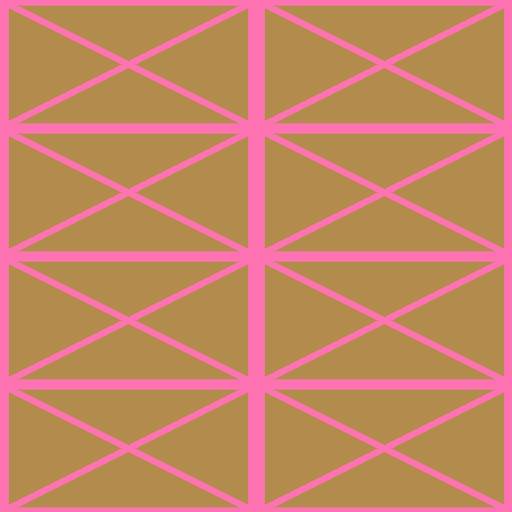
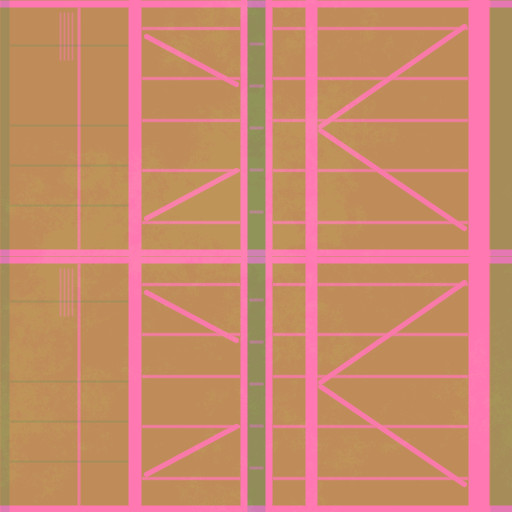
stadium: the dark steel texture in TMNF's Stands2 layout (M11-3)
Claude-Session: https://claude.ai/code/session_01CoCjs3F2Nw6StPmuE9yD2C

diff --git a/stadium/tools/texgen/decks.py b/stadium/tools/texgen/decks.py
@@ -232,30 +232,66 @@ def circuit_band(name='circuit_band', ppm=64, size_u=16.0, size_v=3.5, seed=291)
     save(name, turn(np.clip(col, 0, 1)), nrm, turn(orm))
 
 
-def steel_truss(name='steel_truss', ppm=64, size_m=8.0, seed=301, base=(40, 40, 41)):
-    """The dark steel behind the circuit's screens and under its ledges: posts every 4 m, rails
-    every 2 m, X braces between, on a dark panel (world-mapped)."""
-    w = h = int(size_m * ppm)
-    yy, xx = np.mgrid[0:h, 0:w].astype(np.float32) / ppm
-    def bar(d, half):
-        return 1.0 - smoothstep(half, half + 0.02, d)
-    post = bar(np.minimum(xx % 4.0, 4.0 - xx % 4.0), 0.12)
-    rail = bar(np.minimum(yy % 2.0, 2.0 - yy % 2.0), 0.07)
-    lx, ly = xx % 4.0, yy % 2.0
-    brace = np.maximum(bar(np.abs(ly - lx * 0.5) / 1.118, 0.04), bar(np.abs(ly - (2.0 - lx * 0.5)) / 1.118, 0.04))
-    frame = np.clip(np.maximum(np.maximum(post, rail), brace), 0, 1)
+def steel_truss(name='steel_truss', w=512, h=512, seed=301, base=(34, 35, 36)):
+    """The dark steel facade (TMNF's Stands2 layout; world-mapped, 8 m a tile): bays between posts
+    and a heavy girder across the middle and the tile's edge. From the left: a plain panel with a
+    rod and a few ribs, a post, a bay with two braces closing toward the double post in the middle
+    (its slot black), a bay with a post near its left and two braces opening from it to the right
+    post, a dark edge; rails across the bays. Faint: TMNF's steel reads as dark ribbed panels, its
+    braces a little lighter."""
+    yy, xx = np.mgrid[0:h, 0:w].astype(np.float32)
+    hh = yy % 256.0                      # the two halves alike
+    def band(a, lo, hi, soft=1.0):
+        return smoothstep(lo - soft, lo + soft, a) * (1.0 - smoothstep(hi - soft, hi + soft, a))
+    def seg(x0, y0, x1, y1, half_w):
+        # a brace from (x0, y0) to (x1, y1) in each half (pixels)
+        dx, dy = x1 - x0, y1 - y0
+        L = math.hypot(dx, dy)
+        t = np.clip(((xx - x0) * dx + (hh - y0) * dy) / (L * L), 0.0, 1.0)
+        d = np.hypot(xx - (x0 + t * dx), hh - (y0 + t * dy))
+        return 1.0 - smoothstep(half_w - 0.8, half_w + 0.8, d)
+    frame = np.zeros((h, w), np.float32)      # raised steel (lighter)
+    dark = np.zeros((h, w), np.float32)       # gaps and slots (darker)
+    # posts (x ranges) and the heavy girders (rows in each half)
+    for x0, x1 in ((128, 141), (240, 247), (265, 272), (305, 317), (468, 489)):
+        frame = np.maximum(frame, band(xx, x0, x1))
+    dark = np.maximum(dark, band(xx, 247, 265) * 0.9)
+    dark = np.maximum(dark, band(xx, 0, 9) * 0.6 + band(xx, 490, 512) * 0.5)
+    girder = np.maximum(band(hh, 0, 7), band(hh, 249, 256))
+    frame = np.maximum(frame, girder)
+    # rails across the bays (not the plain panel)
+    bays = band(xx, 141, 240) + band(xx, 272, 468)
+    for r in (28, 78, 120, 170, 222):
+        frame = np.maximum(frame, band(hh, r - 1.5, r + 1.5) * bays * 0.8)
+    # the plain panel's seams, rod and ribs
+    panel = band(xx, 9, 128)
+    for r in (45, 125, 165, 205):
+        dark = np.maximum(dark, band(hh, r - 1.0, r + 1.0) * panel * 0.5)
+    frame = np.maximum(frame, band(xx, 77, 80) * panel * 0.7)
+    for x in (60, 64, 68, 72):
+        frame = np.maximum(frame, band(xx, x - 0.8, x + 0.8) * band(hh, 12, 60) * 0.5)
+    # braces: closing toward the middle post (left bay), opening from the post to the right
+    braces = np.maximum.reduce([seg(146, 36, 236, 84, 2.6), seg(146, 218, 236, 170, 2.6),
+                                seg(320, 126, 464, 26, 2.6), seg(320, 130, 464, 228, 2.6)])
+    frame = np.maximum(frame, braces * 0.9)
+    # the middle slot's rungs
+    rung = band(xx, 249, 263) * np.maximum(band(hh % 42.0, 0, 3), 0.0)
+    frame = np.maximum(frame, rung * 0.6)
     n = fbm(w, h, seed, beta=2.2, lo=1.0)
-    bolts = np.zeros_like(xx)
-    for cx in np.arange(0.0, size_m + 0.01, 4.0):
-        for cy in np.arange(0.0, size_m + 0.01, 2.0):
-            for ox, oy in ((0.08, 0.05), (-0.08, 0.05), (0.08, -0.05), (-0.08, -0.05)):
-                r = np.hypot(xx - cx - ox, yy - cy - oy)
-                bolts = np.maximum(bolts, 1.0 - smoothstep(0.012, 0.022, r))
-    tone = (1.0 + 0.05 * n) * (0.72 + 0.28 * frame) * (1.0 + 0.4 * bolts)
+    fine = fbm(w, h, seed + 1, beta=0.8, lo=40.0)
+    gr = grime(w, h, seed + 2, amount=0.6)
+    bolts = np.zeros((h, w), np.float32)
+    for cx in (134, 243, 269, 311, 478):
+        for cy in range(14, 512, 64):
+            r = np.hypot(xx - cx, yy - cy)
+            bolts = np.maximum(bolts, 1.0 - smoothstep(1.2, 2.2, r))
+    tone = (1.0 + 0.05 * n + 0.03 * fine) * (0.94 + 0.30 * frame) * (1.0 - 0.45 * dark) * (1.0 + 0.25 * bolts)
+    tone *= (1.0 - 0.08 * gr)
     col = srgb(base)[None, None, :] * tone[..., None]
-    nrm = normal_from_height(2.5 * frame + 1.5 * bolts, 0.5)
-    orm = np.stack([0.7 + 0.3 * frame, 0.55 - 0.1 * frame, 0.3 + 0.4 * frame], -1)
-    save(name, np.clip(col, 0, 1), nrm, orm, size=(512, 512))
+    hgt = 2.0 * frame - 1.5 * dark + 1.0 * bolts + 0.15 * fine
+    nrm = normal_from_height(hgt, 0.5)
+    orm = np.stack([0.75 + 0.25 * frame - 0.2 * dark, 0.55 - 0.08 * frame + 0.05 * gr, 0.35 + 0.35 * frame], -1)
+    save(name, np.clip(col, 0, 1), nrm, np.clip(orm, 0, 1), size=(512, 512))
 
 
 def circuit_kerb(name='circuit_kerb', ppm=64, size_m=16.0, seed=311, base=(26, 84, 170)):

diff --git a/docs/PLAN.md b/docs/PLAN.md
@@ -223,8 +223,8 @@ and pushed, gated; TMNF data only locally (never in the repo). The deliberate di
       arches (words every 3.08 m, top and underside), the inflatable billboard walls, the camera
       and road pubs, the border atlas (rows audited: atlas_rows.py; the rails' structure), the
       platform lip, the road keel's plates, the decks' 16 m tiles, the circuit walls' bumpers,
-      back panel and ledge, the glass booths' corner and the air booths' walkway; next: the
-      Stands2 texture, the grandstand pillar piece, the curved ledges, M11-3
+      back panel and ledge, the glass booths' corner and the air booths' walkway, the dark steel
+      (Stands2) texture; next: the grandstand pillar piece, the curved ledges, M11-3
 - [ ] 3. The rough decorations to TMNF's shapes (done: palm trees, snow trees, cacti, inflatable castles, the
       Sculpt bridges' fabric and pillars, the camera light base, the terrain zones (1 m survey), the air inflatable structures, the loops' brackets, the road pubs, the road start's pad and the gates' rounded faces; left: bump, fabric pillar corners, trusses, screens, spotlights, bridge rails,
       dirt fences and signs; fidelity test)

diff --git a/docs/research/m11_check.md b/docs/research/m11_check.md
@@ -143,6 +143,11 @@ Not real: EditorHelpers, light glows (WarpSpotsGlow).
   the window modules as the ground's (posts radial round the pavilions: TmGeo.UPRIGHT_ROWS), the
   wall under the walkway dark, the underside white 4 m in from each side. Ours had a solid
   ledge, plain glass, a white wall. Fidelity: 98.6-100% on all six.
+- The dark steel (21 Oct): every TMNF Stands2 material (Control, Platform, Fabric, Turbo, Warp)
+  draws StadiumWarpStands2D: dark (mean 35, 30-41) ribbed panels, posts, a heavy girder across the
+  middle, faint braces (K toward the middle double post, opening from a post on the right), mapped
+  8-14 m a tile (rotated on the booths' end caps). Our steel_truss drew bold light X's on a grid:
+  redrawn in its layout (texgen decks.py), mean 34.
 - The booths' plinth rims (bluish grey), the camera booth's walkway (white), the galleries' ends
   (dark): camera booth 127 -> 73 m2, its straight 392 -> 64, glass straight 650 -> 320 (20 Oct).
 - The grandstands' wave roofs: fabric_roof in TMNF's layout (ribs every two facets, pillows).

diff --git a/docs/HANDOFF.md b/docs/HANDOFF.md
@@ -60,8 +60,9 @@
   tracks), the road start's pad (the car starts on it as in TMNF) and the gates' rounded faces,
   the glass booths' corner (TMNF's: chamfered outside, a white chamfer inside; 98-99.7%), the air
   glass booths' walkway (grating at 1 m, railing, stairs down at open ends, ad boards under it),
-  window-module glass and dark/white underside. Next: the dark Stands2 texture (TMNF's ribbed
-  panels and faint K-braces; our steel_truss draws bold X's).
+  window-module glass and dark/white underside, the dark steel texture (steel_truss: TMNF's
+  Stands2 layout, ribbed panels and faint braces, not bold X's). TMNF lays Stands2 rotated on the
+  booths' end caps and along the sweep on their roofs (ours world-mapped): not done.
   Side-by-side renders:
   `tests/block_view.tscn` (one shape; `--ref=<local ref dir>` shows TMNF's own look); numbers:
   `tests/block_dump.tscn` + `material_check.py --shape=<family> --detail` (it can't tell

diff --git a/docs/PROGRESS.md b/docs/PROGRESS.md
@@ -2982,3 +2982,8 @@ on every real contact the full impulse would land at the contact point and kick 
   its edges. Ours had a solid ledge box, plain grey glass and a white wall. The window posts stand
   radial round the pavilions (a sweep's atlas run can now keep one u per frame). Fidelity: all six
   air pieces 98.6-100%.
+- (M11-3) **The dark steel texture in TMNF's Stands2 layout** (`texgen/decks.py steel_truss`;
+  keys stands_dark, truss). All of TMNF's Stands2 materials (booths, pubs, camera lights, platform
+  and circuit backs) draw one texture: dark ribbed panels between posts, a girder across the middle,
+  faint braces. Ours drew bold light X's on a 4 x 2 m grid, which read as a lattice on the booths'
+  roofs and ends. Redrawn (our own drawing in its layout, same tone).
